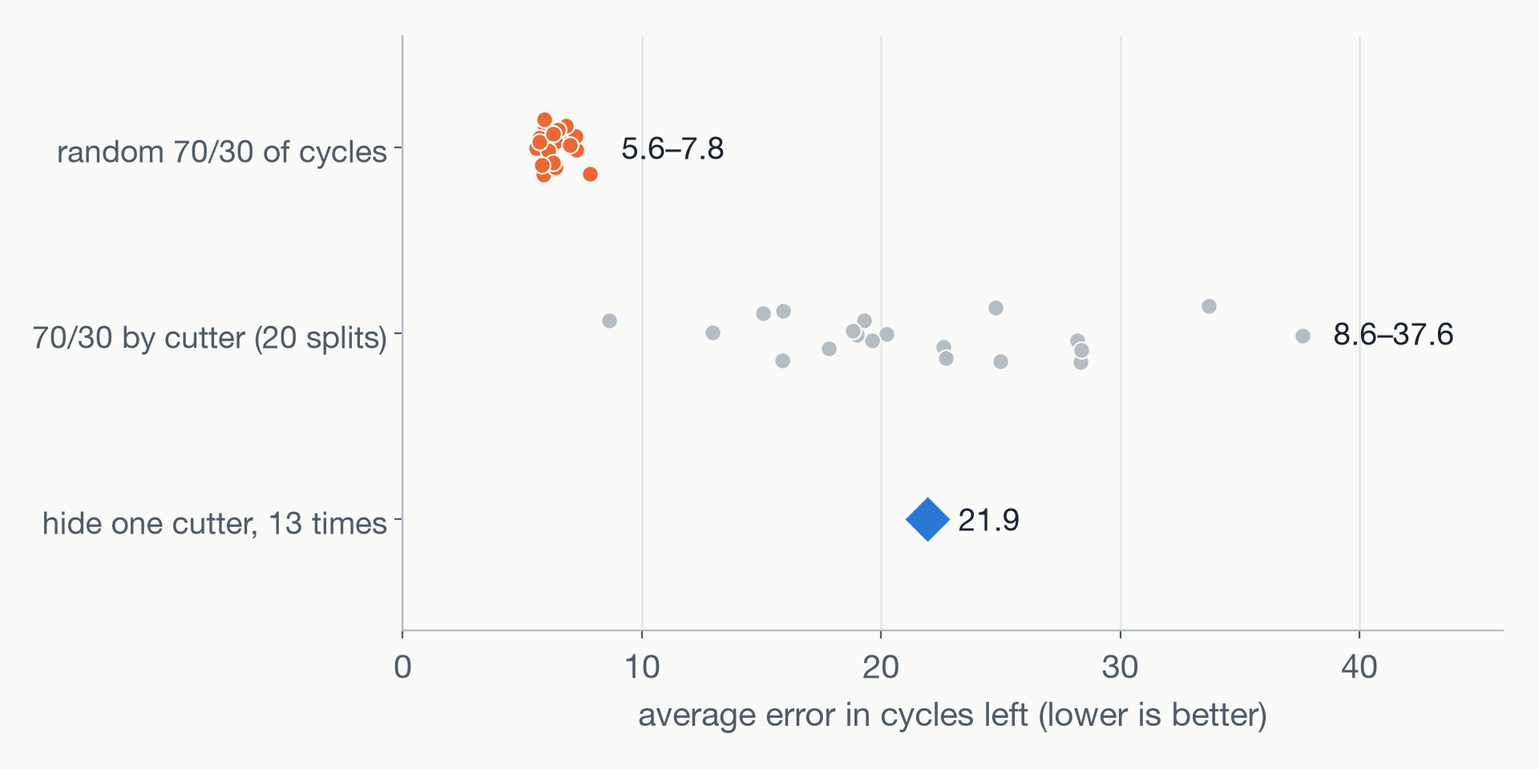
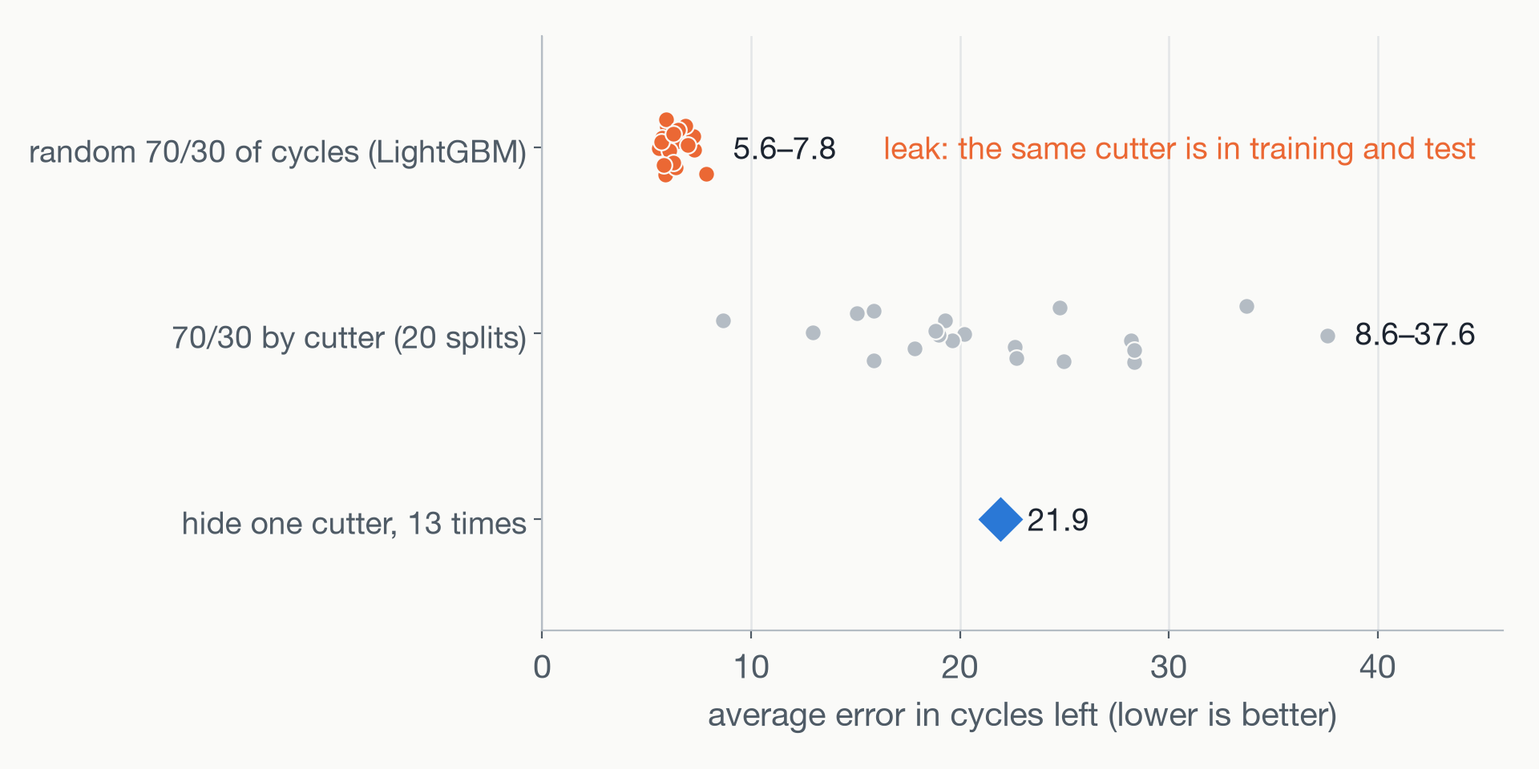
Review 2 deck redesign: diagram plots, annotated charts, one error number
Adds the small text-free plots that sit inside the deck's flowcharts
(raw recording, cutting window, spectrum, the 22 numbers, change since
new, one row per cycle, a risk curve), writes the key points onto the
results, decisions and split charts, and drops the last-20%-of-life bars.
The script follows the rebuilt slides.

diff --git a/scripts/28_review2_charts.py b/scripts/28_review2_charts.py
@@ -159,7 +159,7 @@ def splits():
     fig, ax = plt.subplots(figsize=(9.6, 4.8))
     lg = pd.read_csv(ROOT / "results" / "models" / "split_comparison_lgbm.csv")
     tc = pd.read_csv(ROOT / "results" / "models" / "split_comparison_tcn.csv")
-    rows = [("random 70/30 of cycles", lg[lg.split == "rows 70/30"].whole, ORANGE),
+    rows = [("random 70/30 of cycles (LightGBM)", lg[lg.split == "rows 70/30"].whole, ORANGE),
             ("70/30 by cutter (20 splits)", tc[tc.split == "cutters 70/30"].whole, GREY),
             ("hide one cutter, 13 times", tc[tc.split == "leave one out"].whole, BLUE)]
     for y, (lab, v, col) in enumerate(rows):
@@ -170,6 +170,8 @@ def splits():
         else:
             ax.scatter(v, y + rng.uniform(-0.16, 0.16, len(v)), s=55, color=col, edgecolor=BG, lw=0.8)
             ax.text(v.max() + 1.3, y, f"{v.min():.1f}–{v.max():.1f}", va="center", fontsize=14, color=INK)
+        if y == 0:
+            ax.text(v.max() + 8.5, y, "leak: the same cutter is in training and test", va="center", fontsize=14, color=ORANGE)
     ax.set_yticks(range(3), [r[0] for r in rows], fontsize=14)
     ax.set_ylim(2.6, -0.6)
     ax.set_xlim(0, 46)
@@ -187,24 +189,26 @@ def results():
             ("LSTM", "Zoo: LSTM"),
             ("Transformer", "Zoo: Causal transformer"),
             ("TCN, physics features (ours)", "TCN: physics features")]
-    fig, ax = plt.subplots(figsize=(9.6, 5.4))
+    fig, ax = plt.subplots(figsize=(12.8, 5.5))
     y = np.arange(len(pick))
     w = [cs.loc[k, "whole_life"] for _, k in pick]
-    l = [cs.loc[k, "last20"] for _, k in pick]
     col = [BLUE if "ours" in lab else GREY for lab, _ in pick]
-    ax.barh(y - 0.19, w, height=0.36, color=col)
-    ax.barh(y + 0.19, l, height=0.36, color=col, alpha=0.45)
-    for yi, a, b in zip(y, w, l):
-        ax.text(a + 0.6, yi - 0.19, f"{a:.1f}", va="center", fontsize=12.5, color=INK)
-        ax.text(b + 0.6, yi + 0.19, f"{b:.1f}", va="center", fontsize=12.5, color=INK2)
-    ax.set_yticks(y, [p[0] for p in pick], fontsize=13.5)
+    ax.barh(y, w, height=0.58, color=col)
+    for yi, a in zip(y, w):
+        ax.text(a + 0.6, yi, f"{a:.1f}", va="center", fontsize=14, color=INK)
+    ax.set_yticks(y, [p[0] for p in pick], fontsize=14)
     ax.invert_yaxis()
     ax.grid(axis="y", visible=False)
-    ax.set_xlim(0, 42)
+    ax.set_xlim(0, 56)
+    ax.set_xticks(range(0, 41, 5))
+
+    def bracket(x, y0, y1, text):
+        ax.plot([x - 0.4, x, x, x - 0.4], [y0, y0, y1, y1], color=INK, lw=1.3, clip_on=False)
+        ax.text(x + 0.8, (y0 + y1) / 2, text, va="center", fontsize=14, color=INK, linespacing=1.4)
+
+    bracket(26.5, 3, 6, "a tie: closer together\nthan one model re-run\nwith new random starts")
+    bracket(40.5, 1, 6, "sensors:\n6 cycles better,\na real gap\n(2.6–9.5)")
     ax.set_xlabel("average error in cycles left on unseen cutters (lower is better)")
-    from matplotlib.patches import Patch
-    ax.legend(handles=[Patch(color=GREY, label="whole life"), Patch(color=GREY, alpha=0.45, label="last 20% of life")],
-              frameon=False, loc="lower right", fontsize=12.5)
     save(fig, "results.png")
 
 
@@ -235,7 +239,7 @@ def decisions():
             ("Our rule, settings-only model", pick("weibull_settings_age", "dp"), GREY),
             ("Our rule, TCN (sensors)", pick("history_physics", "dp"), BLUE),
             ("Perfect knowledge", pick("history_physics", "oracle"), "#DDE1E5")]
-    fig, ax = plt.subplots(figsize=(9.6, 4.8))
+    fig, ax = plt.subplots(figsize=(12.8, 5.4))
     y = np.arange(len(rows))
     v = [r[1].cost_per_good for r in rows]
     ax.barh(y, v, color=[r[2] for r in rows], height=0.6)
@@ -243,9 +247,14 @@ def decisions():
         ax.text(r.cost_per_good + 1.5, yi, f"₹{r.cost_per_good:.0f}   ·   {int(r.breakages)} of 13 broke", va="center", fontsize=13, color=INK)
     ax.set_yticks(y, [r[0] for r in rows], fontsize=13.5)
     ax.invert_yaxis()
-    ax.set_xlim(0, 175)
+    ax.set_xlim(0, 215)
+    ax.set_xticks(range(0, 121, 20))
     ax.grid(axis="y", visible=False)
     ax.set_xlabel("cost per good cycle, ₹ (lower is better)")
+    x = 152
+    ax.plot([x - 2, x, x, x - 2], [1, 1, 3, 3], color=INK, lw=1.3, clip_on=False)
+    ax.text(x + 3, 2, "half the breakages,\n6% cheaper\n(not yet certain:\n−9% to +21%)", va="center", fontsize=14,
+            color=INK, linespacing=1.4)
     save(fig, "decisions.png")
 
 
@@ -269,7 +278,100 @@ def risk_curves():
     save(fig, "risk103.png")
 
 
+FAMILIES = [  # the TCN's 22 physics inputs, in the four families the deck names
+    ["spindle_net_a", "table_cut_a", "x_cut_a", "y_cut_a", "spindle_charge_per_mm3", "table_over_spindle"],
+    ["X_Driving_axle_pZ__rms", "X_Driving_axle_mX__rms", "Y_Driving_axle_pY__rms", "Spindle_mX__rms",
+     "X_Driving_axle_pZ__hiband_rms", "Y_Driving_axle_pY__hiband_rms", "Spindle_mX__hiband_rms"],
+    ["X_Driving_axle_pZ__tooth", "X_Driving_axle_mX__tooth", "Y_Driving_axle_pY__tooth", "X_Driving_axle_pZ__order1",
+     "X_Driving_axle_mX__order1", "X_Driving_axle_pZ__asym", "X_Driving_axle_pZ__sync_frac"],
+    ["X_Driving_axle_pZ__kurt", "Spindle_mX__kurt"],
+]
+
+
+def minis():
+    """Small text-free plots that sit inside the deck's flowchart boxes (one real cycle, cutter 8)."""
+    from matplotlib.colors import LinearSegmentedColormap
+    from scipy.signal import welch
+
+    card = "#FFFFFF"
+
+    def mini(name, draw, size=(4.48, 2.0)):
+        fig, ax = plt.subplots(figsize=size)
+        fig.patch.set_facecolor(card)
+        ax.set_facecolor(card)
+        draw(ax)
+        ax.axis("off")
+        fig.subplots_adjust(0.02, 0.04, 0.98, 0.96)
+        fig.savefig(OUT / f"mini_{name}.png", dpi=200, facecolor=card)
+        plt.close(fig)
+
+    d = load_cycle("P012_F01_C4")
+    v = d["vib"]["X Driving axle +Z"]
+    nb = 2000
+    vv = v[: len(v) // nb * nb].reshape(-1, nb)
+    mini("raw", lambda ax: ax.fill_between(np.arange(len(vv)), vv.min(1), vv.max(1), color=INK, lw=0))
+
+    def cutting(ax):
+        t, cut = d["t_cur"], d["cutting_cur"]
+        edges = np.flatnonzero(np.diff(np.r_[0, cut.astype(int), 0]))
+        for s, e in zip(t[edges[::2]], t[np.minimum(edges[1::2], len(t) - 1)]):
+            if e - s > 2:
+                ax.axvspan(s, e, color=BLUE, alpha=0.18, lw=0)
+        ax.plot(t, d["spindle"], color=INK, lw=1.4)
+        ax.set_ylim(0, 8.5)
+    mini("cutting", cutting)
+
+    def spectrum(ax):
+        f, p = welch(v[d["cutting_vib"]], fs=25000, nperseg=8192)
+        keep = f <= 1150
+        for k in range(1, 6):
+            ax.axvline(k * 3200 / 60 * 4, color=BLUE, lw=2.2, alpha=0.55)
+        ax.plot(f[keep], np.log10(p[keep]), color=INK, lw=1.3)
+    mini("spectrum", spectrum)
+
+    ph = pd.read_parquet(ROOT / "data" / "processed" / "rzeszow_physics.parquet")
+    g = ph[ph.tool == 8].sort_values("age").drop_duplicates("age")
+    rel = [c for fam in FAMILIES for c in fam if f"{c}__rel" in g]
+
+    def numbers(ax):
+        row = g.iloc[-3]
+        x, pos = [], 0
+        for fam in FAMILIES:
+            for c in fam:
+                x.append(pos)
+                pos += 1
+            pos += 0.9
+        vals = [np.log(row[f"{c}__rel"]) if f"{c}__rel" in g else (row[c] - ph[c].mean()) / ph[c].std() / 3
+                for fam in FAMILIES for c in fam]
+        ax.bar(x, vals, width=0.72, color=BLUE)
+        ax.axhline(0, color=INK, lw=1.2)
+    mini("numbers", numbers)
+
+    def relative(ax):
+        ax.axhline(1, color=INK, lw=1.2, ls=(0, (4, 3)))
+        ax.plot(g.age, g["table_cut_a__rel"], color=BLUE, lw=2.2)
+        ax.plot(g.age[:3], g["table_cut_a__rel"][:3], "o", color=INK, ms=6)
+    mini("relative", relative)
+
+    def rows(ax):
+        m = np.log(g[[f"{c}__rel" for c in rel]].to_numpy().clip(1e-3))
+        cmap = LinearSegmentedColormap.from_list("b", [card, BLUE, "#123F75"])
+        ax.imshow(m.clip(0, 1.2), aspect="auto", cmap=cmap, vmin=0, vmax=1.2, interpolation="nearest")
+    mini("rows", rows)
+
+    p = pd.read_parquet(ROOT / "results" / "predictions" / "history_physics.parquet")
+    row = p[(p.tool == 103) & (p.run_idx == 30)].iloc[0]
+    hc = sorted([x for x in p.columns if x.startswith("hazard_")], key=lambda s: int(s.split("_")[1]))
+    h = row[hc].to_numpy(float)
+    pk = h * np.cumprod(np.r_[1, 1 - h[:-1]])
+
+    def risk(ax):
+        ax.bar(np.arange(1, len(pk) + 1), pk, width=0.8, color=BLUE)
+        ax.axhline(0, color=INK, lw=1.2)
+    mini("risk", risk, size=(6.0, 1.8))
+
+
 if __name__ == "__main__":
-    for f in (lives, one_cycle, features, tcn_diagram, loco_grid, splits, results, replay, decisions, risk_curves):
+    for f in (lives, one_cycle, features, tcn_diagram, loco_grid, splits, results, replay, decisions, risk_curves, minis):
         f()
     print("written to", OUT)

diff --git a/research/review-2-video-script.md b/research/review-2-video-script.md
@@ -1,8 +1,8 @@
 # Review 2 video script: final deck
 
-**Length:** about 7½ minutes (1015 spoken words at about 135 words a minute, plus slide changes).
+**Length:** about 7½ minutes (1007 spoken words at about 135 words a minute, plus slide changes).
 **Deck:** 10 main slides and 3 backup slides (ToolLife Policy Review 2 Final). The same words are in each slide's speaker notes.
-**Speakers:** 5. Names are in each slide's footer; nobody introduces themselves.
+**Speakers:** 5. Nobody introduces themselves; each speaker hands over by name.
 **Rule for every speaker:** say the numbers exactly as written. Every number is a measured result from our code, on cutters the model never saw. Errors are in cycles; costs are rupees per good cycle.
 
 ---
@@ -13,49 +13,49 @@
 
 > This is ToolLife Policy, our Review 2. Review 1 set out the problem and the data. Today: how we prepared the data, the model we chose, how we tested it, and the working system.
 
-**Slide 2: A broken cutter costs twice a planned change**
+**Slide 2: A breakage costs ₹6,530; a planned change ₹3,133**
 
-> A quick reminder. A milling cutter wears a little on every cut, until it snaps; these fourteen did. A planned change costs about three thousand one hundred rupees, a breakage about six and a half thousand, twice as much. So on every cycle the question is: keep it, or change it now? Our system reads the sensors, estimates the cycles left as a low, middle and high value, weighs that against the two costs, and decides. Everything we promised at Review 1 is built.
+> A quick reminder of the problem. A milling cutter wears a little on every cut, until it snaps; these fourteen did. A breakage costs about six and a half thousand rupees, twice a planned change. So on every cycle our system reads the sensors, the TCN turns them into a risk curve, and a cost rule decides: keep cutting and check again next cycle, or change the cutter now. Everything we promised at Review 1 is built.
 
 **Slide 3: Fourteen cutters, each run until it broke**
 
-> The data is from Piecuch and Żabiński, 2025. Fourteen cutters run until they broke: nine hundred and sixty-eight cycles, eight vibration sensors, twelve motor currents, a hundred and twelve gigabytes. The lives range from fifteen cycles to a hundred and fifty. Cutter eleven, in grey, broke on its first cycle, so we leave it out. That leaves thirteen lives, and that is our real sample size, because each life gives exactly one breaking point. Over to Bhuwan.
+> The data is from Piecuch and Żabiński, 2025: one Haas milling machine, and fourteen cutters run until they broke. Nine hundred and sixty-eight cycles, eight vibration sensors, twelve motor currents, a hundred and twelve gigabytes. The lives range from fifteen cycles to a hundred and fifty. Cutter eleven, in grey, broke on its first cycle, so we leave it out. Thirteen lives is our real sample size, because each life gives exactly one breaking point. Over to Bhuwan.
 
-## Bhuwan: data pre-processing and feature engineering (about 90 seconds)
+## Bhuwan: data pre-processing and feature engineering (about 95 seconds)
 
-**Slide 4: From a raw recording to one clean row per cycle**
+**Slide 4: From a raw recording to one row per cycle**
 
-> Each cycle arrives as raw sensor counts. First, we convert them to amps and metres per second squared. Second, we keep only the cutting: the spindle current shows when the cutter is in the steel, here twenty-seven seconds out of a hundred and fifteen. Third, we take each sensor's spectrum, to see how loud the vibration is and at what pitch. Fourth, and most important, every number is divided by the same cutter's value in its first three clean cycles, because what matters is change since new. And we only ever use cycles already seen, never the future.
+> Each cycle arrives as a raw recording, about two minutes long. We keep only the actual cutting: the spindle current shows when the cutter is in the steel, here twenty-seven seconds out of a hundred and fifteen. We take each sensor's spectrum; the blue lines are the tooth hits, two hundred and thirteen a second. From that we compute twenty-two physics numbers, and divide each by the same cutter's first three clean cycles, because what matters is change since new. We only ever use cycles already seen, never the future. The result is one row per cycle; darker means more change.
 
-**Slide 5: 22 physics numbers per cycle**
+**Slide 5: 22 physics numbers, plus 7 for context**
 
-> From each cycle we compute twenty-two physics numbers in four families. Load: how hard the motors work, since a blunt cutter rubs and the steel pushes back. Vibration level and pitch. Rhythms: the four teeth make a beat, and a chipped tooth adds a once-per-turn beat. And impacts: sharp spikes. On the right, the table current and the high-pitched vibration both climb towards the end of life. And it is wear, not position in the block: with position removed, table current still tracks life at zero point nine four. With the settings, the cycle count and a first-ring flag, that is twenty-nine inputs per cycle. Amal.
+> The twenty-two numbers come in four families. Load: how hard the motors work, since a blunt cutter rubs and the steel pushes back. Vibration: how loud, and how high-pitched. Rhythms: the beat of the four teeth, and the once-per-turn beat a chipped tooth adds. And impacts: sharp spikes. On the right are two of them over every cutter's life, and both climb towards the end. We checked that this is wear, not the cutter's position in the block: with position removed, table current still tracks life at zero point nine four. With five settings, the cycle count and a first-ring flag, the model gets twenty-nine inputs per cycle. Amal.
 
 ## Amal: model selection and architecture (about 55 seconds)
 
 **Slide 6: A causal TCN that looks back about 60 cycles**
 
-> We tried five kinds of model. LightGBM looks at one cycle at a time, with no memory, so it became our yardstick. A one-D CNN on raw vibration could not learn from only thirteen lives. An autoencoder health score did worse than our physics numbers. LSTM, GRU and Transformer were no more accurate. We chose a TCN, a temporal convolutional network. It is causal: it uses only the past, never the future, just like a real machine. Four blocks with gaps of one, two, four and eight let it look back about sixty cycles with only a hundred and nine thousand weights. And it outputs the chance of breaking on each of the next hundred and sixty cycles: the risk curve our cost rule needs. Rafiq.
+> We tried five kinds of model. LightGBM looks at one cycle at a time, with no memory, so it became our yardstick. A one-D CNN on raw vibration could not learn from only thirteen lives. An autoencoder health score did worse than our physics numbers. LSTM, GRU and Transformer were no more accurate. We chose a TCN, a temporal convolutional network. It is causal: as the picture shows, every output looks only backwards, never at the future, just like a real machine. Four blocks with gaps of one, two, four and eight let it see about sixty cycles back with only a hundred and nine thousand weights. Its head gives the chance of breaking on each coming cycle: the risk curve our cost rule needs. Rafiq.
 
 ## Rafiq: training and evaluation (about 100 seconds)
 
 **Slide 7: Every test cutter is one the model never saw**
 
-> To test honestly with thirteen cutters, we hide one whole cutter, train on the other twelve, and test on it, thirteen times over. Every cutter is tested by a model that never saw it. Why not seventy-thirty? A random split of cycles puts the same cutter on both sides: the error drops to six point four, and that is a leak, not skill. Seventy-thirty by whole cutters is honest, but it swings from nine to thirty-eight depending on which four cutters land in the test. Training uses a survival loss, the AdamW optimiser, four hundred passes, and five random starts averaged.
+> To test honestly with thirteen cutters, we hide one whole cutter, train on the other twelve with five random starts, average them, and predict the hidden one. We repeat that thirteen times, so every cutter is tested by a model that never saw it. Training uses a survival loss, the AdamW optimiser and four hundred passes. Why not a normal seventy-thirty split? Shuffling cycles puts the same cutter on both sides: the error drops to about six, and that is a leak, not skill. Splitting by whole cutters is honest, but the answer swings from nine to thirty-eight depending on which four cutters land in the test.
 
 **Slide 8: Sensors help; the network type barely matters**
 
-> All results are on unseen cutters, in cycles of error. A TCN that knows only the cutter's age is off by twenty-eight. With our physics features, twenty-two, and sixteen in the last fifth of life, when it matters most. That six-cycle gain is real. Settings alone get to twenty-six and are hard to beat on ordinary cutters. But on cutter ten, the only one on a long holder, they were off by a hundred and twenty-three cycles; the TCN, seeing it shake, by twenty-eight. Between models, it is a tie: Transformer, LSTM, LightGBM and our TCN all land between twenty-one and twenty-two, less than the swing from re-running one model. Thirty-three models, over thirteen hundred networks, one test. Aaditya.
+> Here is every main model on unseen cutters, as the average number of cycles it is off by. A TCN that knows only the cutter's age is off by twenty-eight. With our physics features, twenty-two. That six-cycle gain from the sensors is real. Settings alone get to twenty-six and are hard to beat on ordinary cutters. But on cutter ten, the only one on a long holder, they were off by a hundred and twenty-three cycles; the TCN, seeing it shake, by twenty-eight. Between models, it is a tie: Transformer, LSTM, LightGBM and our TCN are closer together than one model re-run with new random starts. Thirty-three models, over thirteen hundred networks, one test. Aaditya.
 
-## Aaditya: model implementation: the working system and its decisions (about 120 seconds)
+## Aaditya: model implementation: the working system and its decisions (about 115 seconds)
 
-**Slide 9: From a raw recording to keep-or-change, every cycle**
+**Slide 9: From a raw recording to keep-or-change**
 
-> This is the whole system, and all of it runs. A raw recording comes in. The convert step turns counts into units and keeps only the cutting. The feature step computes the twenty-two physics numbers. The TCN, in PyTorch, reads the recent history and outputs a risk curve. The decision step weighs that curve against the two costs: keep, or change. Every model was trained thirteen folds times five random starts; over thirteen hundred networks, on a laptop and a cloud machine. On the right is cutter one-oh-three, never seen in training. Black is the truth, blue is our prediction. Early on it is too hopeful: almost a hundred cycles, against sixty. As wear builds it closes in, meeting the truth near cycle forty. At forty-seven the rule changes the cutter. It would have broken at sixty.
+> This is the system, as running code: four scripts in a chain. The first turns raw sensor counts into units and keeps only the cutting. The second computes the twenty-two physics numbers. The third trains the TCN in PyTorch: thirteen folds, five random starts each, four hundred passes. The fourth turns each risk curve into keep or change. Across the whole comparison that is over thirteen hundred networks, on a laptop and a cloud machine. On the left is cutter one-oh-three, never seen in training. Black is the truth, blue is our prediction. Early on it is too hopeful: almost a hundred cycles, against sixty. As wear builds it closes in, meeting the truth near cycle forty. At forty-seven the rule changes the cutter. It would have broken at sixty.
 
 **Slide 10: Ten breakages down to five**
 
-> Now the decision, which is what a shop pays for. We replay all thirteen cutters cycle by cycle, each rule tuned on the other twelve, at Indian shop costs. Run to failure: all thirteen break. Change every N cycles, the usual practice: ten still break. Our rule with the TCN: five break, and the cost per good cycle falls from ninety-nine rupees to ninety-three. That six percent is promising, not proven: with thirteen cutters, its range runs from minus nine to plus twenty-one percent. What does hold up is the sensors: the same rule on a TCN without them costs a hundred and eleven rupees. Perfect knowledge would cost fifty-nine, forty percent less, and our error is still falling as cutters are added. So the next step is more run-to-failure data. Thank you.
+> Now the decision, which is what a shop pays for. We replay all thirteen cutters cycle by cycle, each rule tuned on the other twelve, at Indian shop costs. Run to failure: all thirteen break. Change every N cycles, the usual practice: ten still break. Our rule with the TCN: five break, and the cost per good cycle falls from ninety-nine rupees to ninety-three. That six percent is promising, not proven: with thirteen cutters, its range runs from minus nine to plus twenty-one percent. What does hold up is the sensors: the same rule on a TCN without them costs a hundred and eleven rupees. Perfect knowledge would cost fifty-nine, and our error is still falling as cutters are added. So the next step is more run-to-failure data. Thank you.
 
 ---
 
@@ -67,15 +67,15 @@
 
 **Chosen first, then tested against 32 rivals** (Amal or Aaditya)
 
-> We fixed the TCN as the main model before running any rival, so it cannot be the luckiest of thirty-three. It was chosen for the job: it is causal, it is small enough for thirteen lives, and it outputs a risk for each future cycle, which the cost rule needs. It is not the top score. The same TCN on the dataset's own hundred and twenty summaries scored nineteen point two, but its edge over our physics features has a ninety-five percent interval of minus one point five to plus seven point three cycles, so it could be luck. It does hint that our hand-picked features leave something out, and we report that rather than switch. Raw-signal learning, the one-D CNN at thirty-one point seven, failed because thirteen lives are too few.
+> We fixed the TCN as the main model before running any rival, so it cannot be the luckiest of thirty-three. It was chosen for the job: it is causal, it is small enough for thirteen lives, and it outputs a risk for each coming cycle, which the cost rule needs. It is not the top score, and need not be: re-running one model with new random starts moves it between twenty-one point seven and twenty-four point one, and none of the gaps at the top is statistically certain. The same TCN on the dataset's own hundred and twenty summaries scored nineteen point two; its edge has a ninety-five percent interval of minus one point five to plus seven point three cycles, so it could be luck, but it hints our hand-picked features leave something out. We report it rather than switch. Learning from raw signal, the one-D CNN at thirty-one point seven, failed because thirteen lives are too few.
 
-**Why our 13 lives are the main data** (Yadu or Aaditya)
+**Why our 13 lives stay the main data** (Yadu or Aaditya)
 
-> We did look at other datasets: NASA, Hannover, MSTW, an Indian VMC 650 shop, PHM 2010 and MATWI. None of them can be the main data, because in none of them does a life end in a breakage. They stop at a wear limit, or when an operator decides, or not at all. Our question is when a cutter breaks, so only our thirteen lives answer it directly. That is the real issue: each life gives exactly one breaking point, so more cycles do not help, only more cutters. The other data is still useful for learning how signals change with wear. A model trained only on the other machines estimated life used on our cutters with an error of zero point one eight two, against zero point one seven two for a model trained on ours; that difference is within the noise. Pretraining our TCN on seventy-three other lives gave twenty-two point zero and fourteen point five, no clear gain over our model.
+> We did look at other datasets: NASA, Hannover, MSTW, an Indian VMC 650 shop, PHM 2010 and MATWI. Our question is when a cutter breaks. Most of them stop at a wear limit, or when an operator decides, or never; MATWI does run to failure, but its labels are noisy and it has one slow vibration sensor. So only our thirteen lives answer the question directly. That is the real issue: each life gives exactly one breaking point, so more cycles do not help, only more cutters. The other data still teaches how signals change with wear. A model trained only on the other machines estimated life used on our cutters with an error of zero point one eight two, against zero point one seven two for one trained on ours, within the noise. Pretraining our TCN on seventy-three other lives gave twenty-two point zero against our twenty-one point nine: no gain.
 
 ## Notes for whoever edits the video
 
 - Keep each speaker's slide on screen while they talk; the deck uses only fades.
 - If a speaker runs long, cut a sentence before cutting any number.
-- The broken-cutter photo and the data credit are from Piecuch & Żabiński (2025), CC BY 4.0.
-- Charts are drawn by `scripts/28_review2_charts.py` into `results/figures/review2/`.
+- The broken-cutter and machine photos and the data are from Piecuch & Żabiński (2025), CC BY 4.0.
+- Charts and the small plots inside the flowcharts are drawn by `scripts/28_review2_charts.py` into `results/figures/review2/`.
